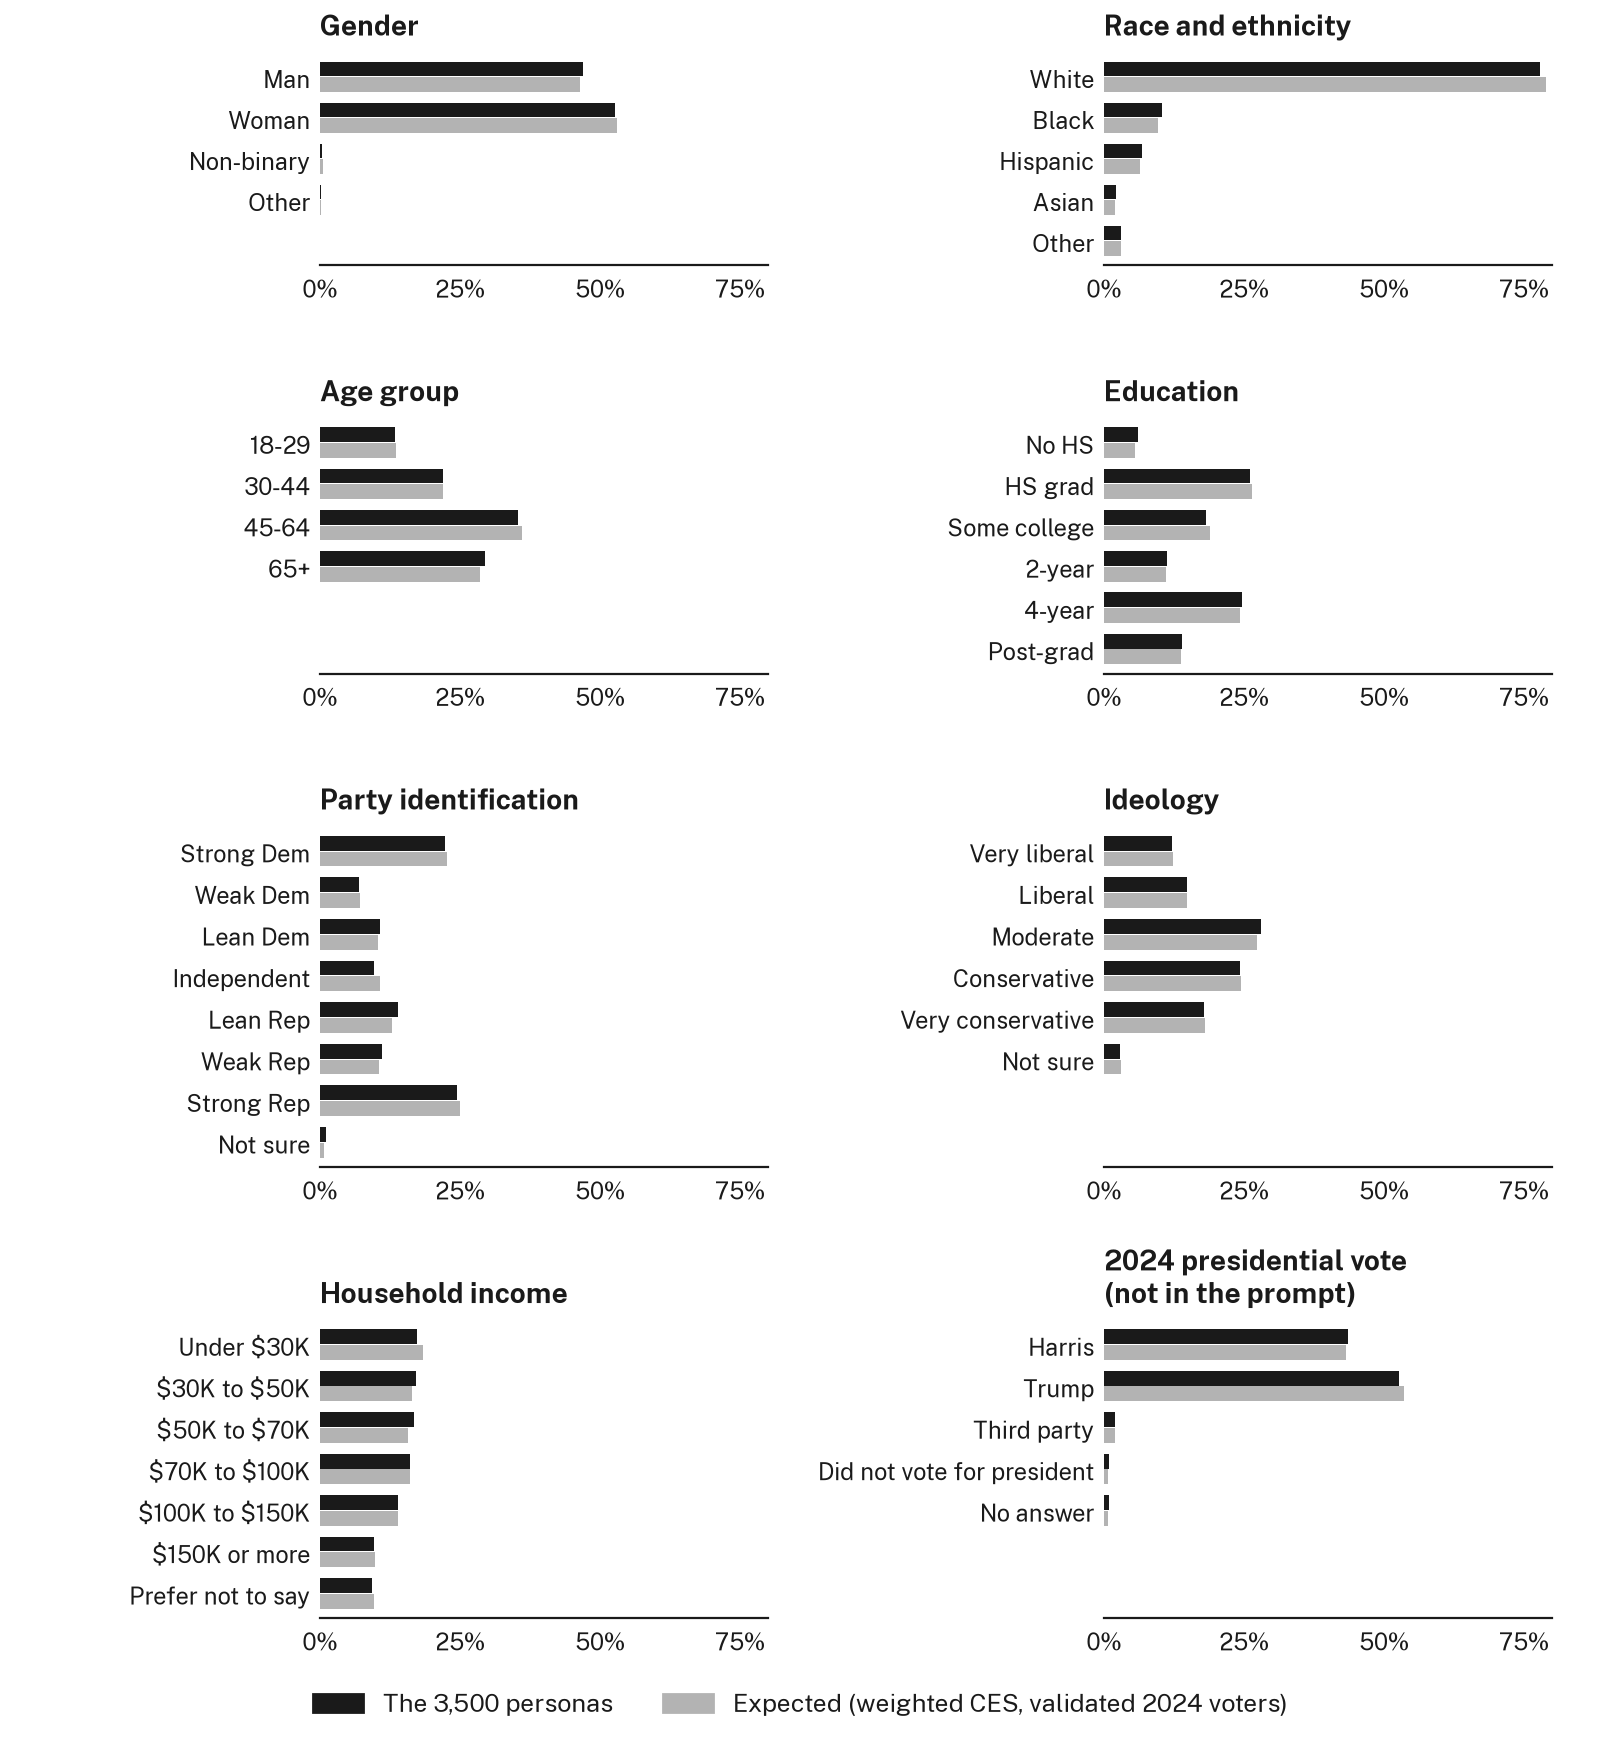
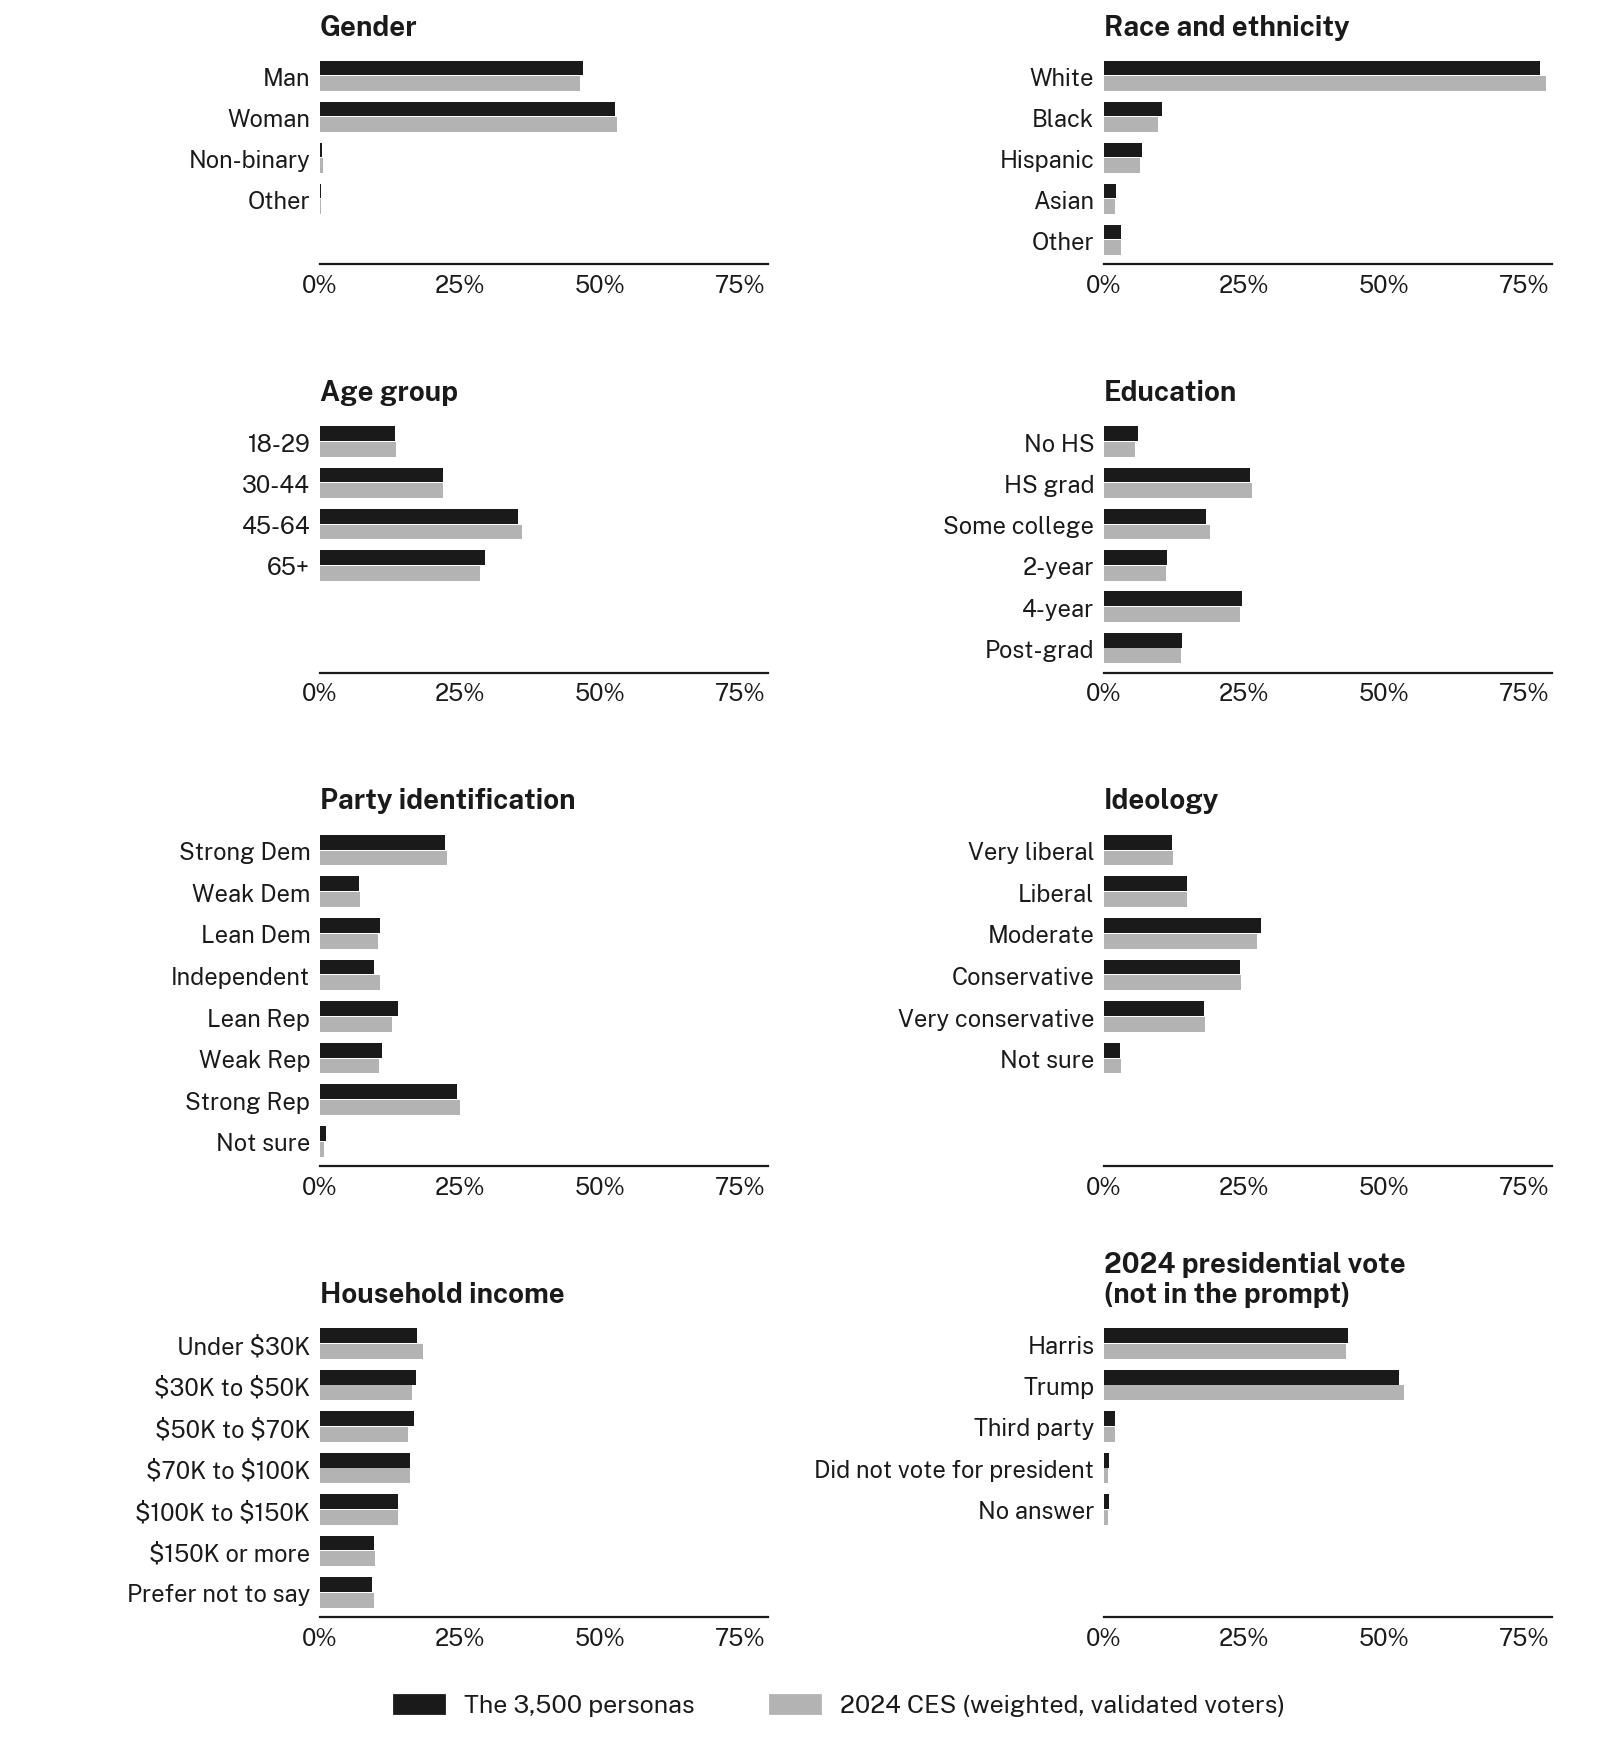
Composition: one table note, CES wording, centred legend, no repeats section
Script 14 now writes Coco's edited paragraph (it had been edited in the
generated file), compares the sample with 'the CES' throughout instead
of 'expected', gives the eight tables one note instead of eight copies,
centres the figure legend on the panels, and no longer writes the
Repeated draws section (the numbers move to Methods and Limitations).

Claude-Session: https://claude.ai/code/session_01R4ZRg2tBsAaXNnsz2Yo3Gq

diff --git a/scripts/14-sample_composition.py b/scripts/14-sample_composition.py
@@ -170,25 +170,25 @@ rep.to_csv(OUT / "repeats_by_state.csv", index=False)
 # index.qmd includes this file ({{< include >}}), so the tables on the page always match the data.
 per_state_text = str(per_state.min()) if per_state.min() == per_state.max() else f"{per_state.min()} to {per_state.max()}"
 max_gap = overall["gap_points"].abs().max()
-md = [f"The sample has {len(personas):,} personas, {per_state_text} in each of the "
-      f"{personas['state'].nunique()} states. The expected share is the weighted CES share among "
-      "validated 2024 voters in each state, averaged over states, because every state contributes "
-      f"the same number of personas. On every category, the sample is within {max_gap:.1f} "
-      "percentage points of the expected share.", "",
-      f"![Composition of the {len(personas):,} personas (black) against the expected shares from "
-      "the weighted CES pool (grey). Household income is grouped into seven bands here; the table "
+md = [f"The sample contains {len(personas):,} personas, {per_state_text} in each of the "
+      f"{personas['state'].nunique()} states. We compare it with the 2024 CES. For each state, we "
+      "compute the weighted share of validated voters in each group, then average these shares "
+      "across states, giving each state equal weight because each contributes "
+      f"{per_state_text} personas. In every group, the sample is within {max_gap:.1f} "
+      "percentage points of the CES.", "",
+      f"![Composition of the {len(personas):,} personas (black) against the weighted 2024 CES "
+      "(grey). Household income is grouped into seven bands here; the table "
       f"view has all 17 categories.]({FIGURE.as_posix()}){{fig-alt=\"Paired horizontal bars for gender, "
       "race and ethnicity, age, education, party identification, ideology, household income and "
-      "2024 presidential vote, comparing the persona sample with the expected shares.\"}", "",
+      "2024 presidential vote, comparing the persona sample with the weighted 2024 CES.\"}", "",
       "<details>", "<summary>Table view</summary>", ""]
 
 
 def table(var):
-    out = [f"**{LABELS[var]}**", "", "| Category | Personas | Sample (%) | Expected (%) |", "|---|---:|---:|---:|"]
+    out = [f"**{LABELS[var]}**", "", "| Category | Personas | Sample (%) | CES (%) |", "|---|---:|---:|---:|"]
     for _, r in overall[overall["variable"] == LABELS[var]].iterrows():
         out.append(f"| {r['category']} | {r['n_sample']:,} | {r['pct_sample']:.1f} | {r['pct_expected']:.1f} |")
-    return out + ["", "::: {.chart-note}",
-                  "Sample is the share of drawn personas; expected is the weighted CES share, averaged equally across states. Small differences are expected from random sampling.", ":::", ""]
+    return out + [""]
 
 
 for left, right in [("gender", "race_5"), ("age_group", "education"), ("party_id_7", "ideology")]:
@@ -197,16 +197,12 @@ for left, right in [("gender", "race_5"), ("age_group", "education"), ("party_id
 for left, right in [("family_income", "pres_2024")]:
     md += ["::: {.columns}", "", '::: {.column width="48%"}'] + table(left) + [":::", "",
            '::: {.column width="4%"}', ":::", "", '::: {.column width="48%"}'] + table(right) + [":::", "", ":::", ""]
-md += ["</details>", ""]
-md += ["**Repeated draws**", "",
-       f"Of the {len(personas):,} personas, {int(rep['repeated_draws'].sum()):,} "
-       f"({rep['repeated_draws'].sum() / len(personas) * 100:.1f}%) repeat a respondent already drawn "
-       "in the same state. The five states with the most repeats are shown below.", "",
-       "| State | Pool | Repeated draws | Repeated (%) |", "|---|---:|---:|---:|"]
-for _, r in rep.head(5).iterrows():
-    md.append(f"| {r['state']} | {int(r['pool_size']):,} | {int(r['repeated_draws'])} | {r['pct_repeated']:.1f} |")
-md += ["", "::: {.chart-note}",
-       "Pool is the number of eligible CES respondents in the state. Repeated draws count selections after a respondent's first appearance, not duplicate API calls. Sampling with replacement allows one respondent to appear as more than one persona.", ":::", ""]
+md += ["::: {.chart-note}",
+       "In every table, sample is the share of drawn personas and CES is the weighted share among "
+       "validated 2024 voters, averaged equally across states. Because personas are drawn at random, "
+       "the sample should match the CES on average but not exactly.", ":::", "",
+       "</details>", ""]
+# Repeated draws (sampling with replacement) are reported in the Methods text of index.qmd.
 (OUT / "composition_overall.md").write_text("\n".join(md).rstrip() + "\n")
 
 #### Figure ####
@@ -239,9 +235,14 @@ for i, (ax, var) in enumerate(zip(axes.flat, order)):
     ax.tick_params(length=0)
     ax.spines[["top", "right", "left"]].set_visible(False)
 handles = [plt.Rectangle((0, 0), 1, 1, color=INK), plt.Rectangle((0, 0), 1, 1, color=GREY)]
-fig.legend(handles, [f"The {len(personas):,} personas", "Expected (weighted CES, validated 2024 voters)"],
-           loc="lower center", ncol=2, frameon=False, bbox_to_anchor=(0.5, 0.0))
 fig.subplots_adjust(left=0.2, right=0.97, top=0.97, bottom=0.07)
+# Centre the legend on what is drawn (panels and their labels), not on the whole image, which has
+# more empty space on the left than on the right.
+fig.canvas.draw()
+boxes = [ax.get_tightbbox(fig.canvas.get_renderer()).transformed(fig.transFigure.inverted()) for ax in axes.flat]
+centre = (min(b.x0 for b in boxes) + max(b.x1 for b in boxes)) / 2
+fig.legend(handles, [f"The {len(personas):,} personas", "2024 CES (weighted, validated voters)"],
+           loc="lower center", ncol=2, frameon=False, bbox_to_anchor=(centre, 0.0), columnspacing=3)
 FIGURE.parent.mkdir(parents=True, exist_ok=True)
 fig.savefig(FIGURE, dpi=200)
 plt.close(fig)

diff --git a/data/03-results/composition/composition_overall.md b/data/03-results/composition/composition_overall.md
@@ -1,6 +1,6 @@
-The sample has 3,500 personas, 100 in each of the 35 states. The expected share is the weighted CES share among validated 2024 voters in each state, averaged over states, because every state contributes the same number of personas. On every category, the sample is within 1.1 percentage points of the expected share.
+The sample contains 3,500 personas, 100 in each of the 35 states. We compare it with the 2024 CES. For each state, we compute the weighted share of validated voters in each group, then average these shares across states, giving each state equal weight because each contributes 100 personas. In every group, the sample is within 1.1 percentage points of the CES.
 
-![Composition of the 3,500 personas (black) against the expected shares from the weighted CES pool (grey). Household income is grouped into seven bands here; the table view has all 17 categories.](figures/composition.png){fig-alt="Paired horizontal bars for gender, race and ethnicity, age, education, party identification, ideology, household income and 2024 presidential vote, comparing the persona sample with the expected shares."}
+![Composition of the 3,500 personas (black) against the weighted 2024 CES (grey). Household income is grouped into seven bands here; the table view has all 17 categories.](figures/composition.png){fig-alt="Paired horizontal bars for gender, race and ethnicity, age, education, party identification, ideology, household income and 2024 presidential vote, comparing the persona sample with the weighted 2024 CES."}
 
 <details>
 <summary>Table view</summary>
@@ -10,16 +10,12 @@ The sample has 3,500 personas, 100 in each of the 35 states. The expected share 
 ::: {.column width="48%"}
 **Gender**
 
-| Category | Personas | Sample (%) | Expected (%) |
+| Category | Personas | Sample (%) | CES (%) |
 |---|---:|---:|---:|
 | Man | 1,640 | 46.9 | 46.4 |
 | Woman | 1,843 | 52.7 | 53.0 |
 | Non-binary | 12 | 0.3 | 0.5 |
 | Other | 5 | 0.1 | 0.2 |
-
-::: {.chart-note}
-Sample is the share of drawn personas; expected is the weighted CES share, averaged equally across states. Small differences are expected from random sampling.
-:::
 
 :::
 
@@ -29,17 +25,13 @@ Sample is the share of drawn personas; expected is the weighted CES share, avera
 ::: {.column width="48%"}
 **Race and ethnicity**
 
-| Category | Personas | Sample (%) | Expected (%) |
+| Category | Personas | Sample (%) | CES (%) |
 |---|---:|---:|---:|
 | White | 2,725 | 77.9 | 78.9 |
 | Black | 362 | 10.3 | 9.6 |
 | Hispanic | 233 | 6.7 | 6.5 |
 | Asian | 73 | 2.1 | 2.0 |
 | Other | 107 | 3.1 | 3.1 |
-
-::: {.chart-note}
-Sample is the share of drawn personas; expected is the weighted CES share, averaged equally across states. Small differences are expected from random sampling.
-:::
 
 :::
 
@@ -50,16 +42,12 @@ Sample is the share of drawn personas; expected is the weighted CES share, avera
 ::: {.column width="48%"}
 **Age group**
 
-| Category | Personas | Sample (%) | Expected (%) |
+| Category | Personas | Sample (%) | CES (%) |
 |---|---:|---:|---:|
 | 18-29 | 468 | 13.4 | 13.5 |
 | 30-44 | 766 | 21.9 | 22.0 |
 | 45-64 | 1,238 | 35.4 | 36.0 |
 | 65+ | 1,028 | 29.4 | 28.5 |
-
-::: {.chart-note}
-Sample is the share of drawn personas; expected is the weighted CES share, averaged equally across states. Small differences are expected from random sampling.
-:::
 
 :::
 
@@ -69,7 +57,7 @@ Sample is the share of drawn personas; expected is the weighted CES share, avera
 ::: {.column width="48%"}
 **Education**
 
-| Category | Personas | Sample (%) | Expected (%) |
+| Category | Personas | Sample (%) | CES (%) |
 |---|---:|---:|---:|
 | No HS | 209 | 6.0 | 5.6 |
 | HS grad | 914 | 26.1 | 26.5 |
@@ -77,10 +65,6 @@ Sample is the share of drawn personas; expected is the weighted CES share, avera
 | 2-year | 392 | 11.2 | 11.0 |
 | 4-year | 863 | 24.7 | 24.3 |
 | Post-grad | 485 | 13.9 | 13.7 |
-
-::: {.chart-note}
-Sample is the share of drawn personas; expected is the weighted CES share, averaged equally across states. Small differences are expected from random sampling.
-:::
 
 :::
 
@@ -91,7 +75,7 @@ Sample is the share of drawn personas; expected is the weighted CES share, avera
 ::: {.column width="48%"}
 **Party identification**
 
-| Category | Personas | Sample (%) | Expected (%) |
+| Category | Personas | Sample (%) | CES (%) |
 |---|---:|---:|---:|
 | Strong Dem | 779 | 22.3 | 22.7 |
 | Weak Dem | 245 | 7.0 | 7.1 |
@@ -102,10 +86,6 @@ Sample is the share of drawn personas; expected is the weighted CES share, avera
 | Strong Rep | 853 | 24.4 | 25.0 |
 | Not sure | 34 | 1.0 | 0.8 |
 
-::: {.chart-note}
-Sample is the share of drawn personas; expected is the weighted CES share, averaged equally across states. Small differences are expected from random sampling.
-:::
-
 :::
 
 ::: {.column width="4%"}
@@ -114,7 +94,7 @@ Sample is the share of drawn personas; expected is the weighted CES share, avera
 ::: {.column width="48%"}
 **Ideology**
 
-| Category | Personas | Sample (%) | Expected (%) |
+| Category | Personas | Sample (%) | CES (%) |
 |---|---:|---:|---:|
 | Very liberal | 428 | 12.2 | 12.3 |
 | Liberal | 519 | 14.8 | 14.8 |
@@ -122,10 +102,6 @@ Sample is the share of drawn personas; expected is the weighted CES share, avera
 | Conservative | 847 | 24.2 | 24.4 |
 | Very conservative | 627 | 17.9 | 18.1 |
 | Not sure | 99 | 2.8 | 3.1 |
-
-::: {.chart-note}
-Sample is the share of drawn personas; expected is the weighted CES share, averaged equally across states. Small differences are expected from random sampling.
-:::
 
 :::
 
@@ -136,7 +112,7 @@ Sample is the share of drawn personas; expected is the weighted CES share, avera
 ::: {.column width="48%"}
 **Household income**
 
-| Category | Personas | Sample (%) | Expected (%) |
+| Category | Personas | Sample (%) | CES (%) |
 |---|---:|---:|---:|
 | Less than $10,000 | 119 | 3.4 | 3.8 |
 | $10,000 - $19,999 | 211 | 6.0 | 6.3 |
@@ -156,10 +132,6 @@ Sample is the share of drawn personas; expected is the weighted CES share, avera
 | $500,000 or more | 10 | 0.3 | 0.3 |
 | Prefer not to say | 323 | 9.2 | 9.6 |
 
-::: {.chart-note}
-Sample is the share of drawn personas; expected is the weighted CES share, averaged equally across states. Small differences are expected from random sampling.
-:::
-
 :::
 
 ::: {.column width="4%"}
@@ -168,7 +140,7 @@ Sample is the share of drawn personas; expected is the weighted CES share, avera
 ::: {.column width="48%"}
 **2024 presidential vote (not in the prompt)**
 
-| Category | Personas | Sample (%) | Expected (%) |
+| Category | Personas | Sample (%) | CES (%) |
 |---|---:|---:|---:|
 | Harris | 1,522 | 43.5 | 43.2 |
 | Trump | 1,846 | 52.7 | 53.5 |
@@ -176,28 +148,12 @@ Sample is the share of drawn personas; expected is the weighted CES share, avera
 | Did not vote for president | 31 | 0.9 | 0.7 |
 | No answer | 30 | 0.9 | 0.7 |
 
+:::
+
+:::
+
 ::: {.chart-note}
-Sample is the share of drawn personas; expected is the weighted CES share, averaged equally across states. Small differences are expected from random sampling.
-:::
-
-:::
-
+In every table, sample is the share of drawn personas and CES is the weighted share among validated 2024 voters, averaged equally across states. Because personas are drawn at random, the sample should match the CES on average but not exactly.
 :::
 
 </details>
-
-**Repeated draws**
-
-Of the 3,500 personas, 904 (25.8%) repeat a respondent already drawn in the same state. The five states with the most repeats are shown below.
-
-| State | Pool | Repeated draws | Repeated (%) |
-|---|---:|---:|---:|
-| AK | 76 | 66 | 66.0 |
-| WY | 52 | 62 | 62.0 |
-| RI | 127 | 47 | 47.0 |
-| MT | 160 | 44 | 44.0 |
-| DE | 116 | 44 | 44.0 |
-
-::: {.chart-note}
-Pool is the number of eligible CES respondents in the state. Repeated draws count selections after a respondent's first appearance, not duplicate API calls. Sampling with replacement allows one respondent to appear as more than one persona.
-:::
